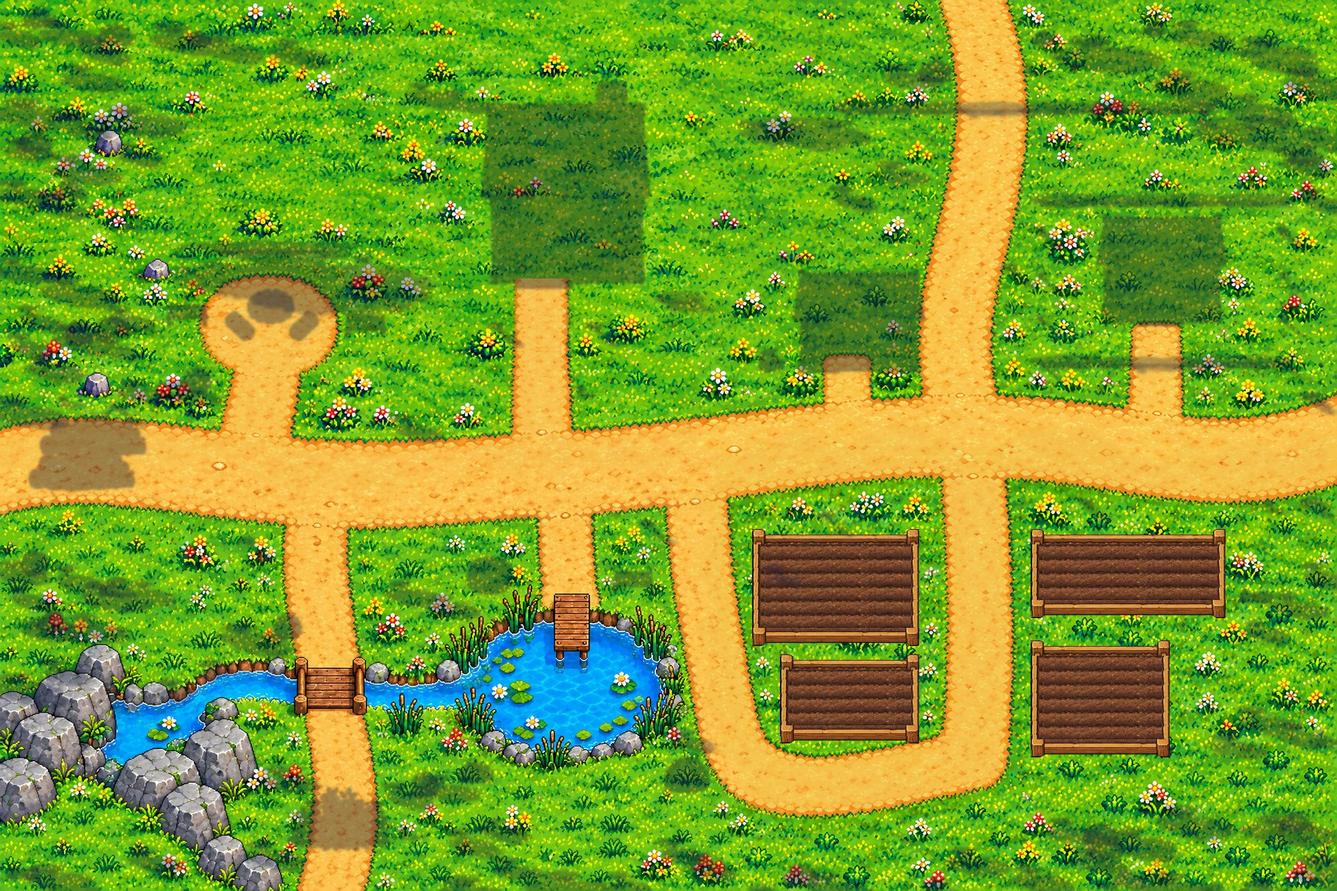
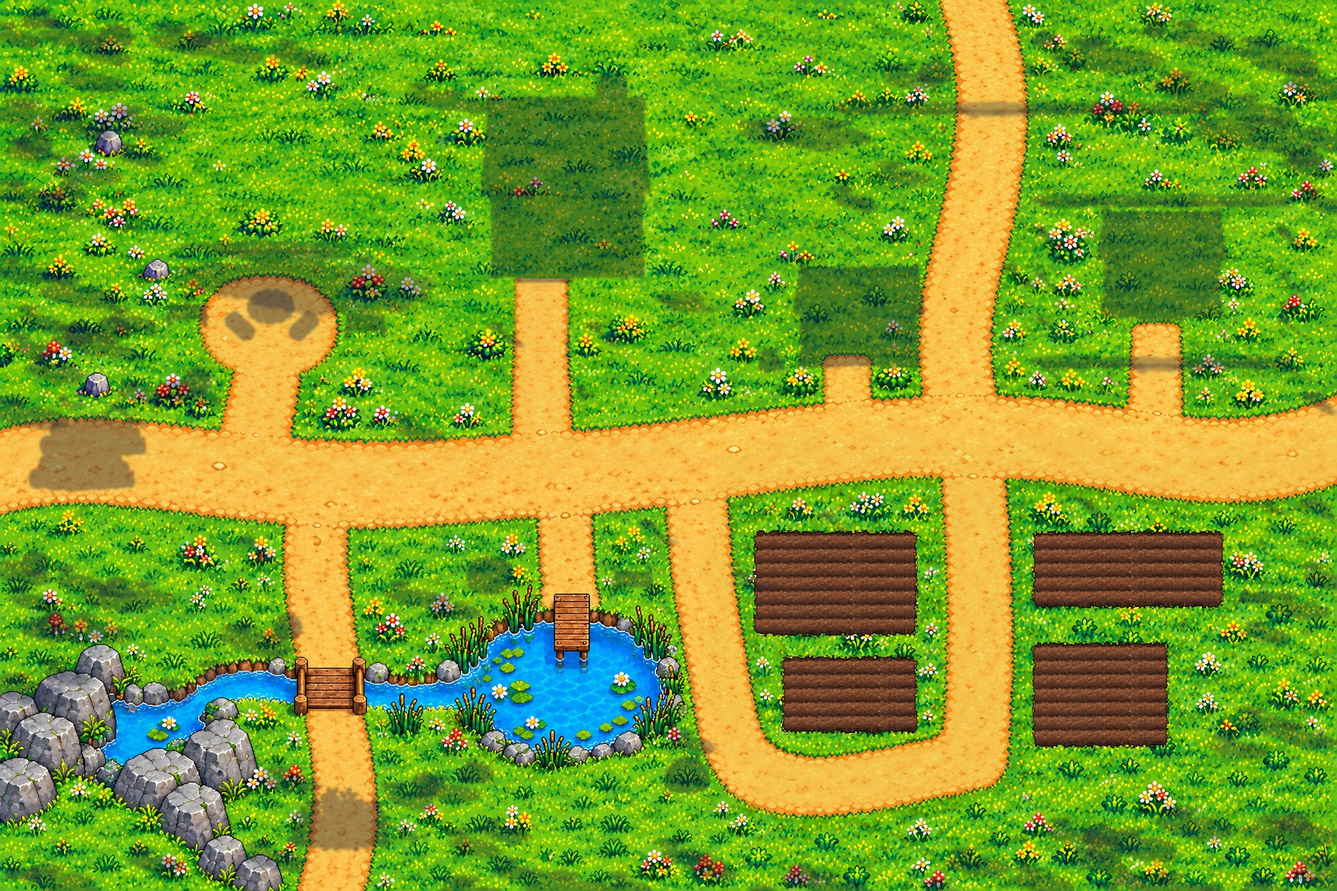
1.13: fixes from the owner's walk through G9: no stepping off the bridge into the stream, beds as frameless tilled soil with small planting holes, no baked gold outline, mailbox name above the box, no shadow band under buildings, no code-drawn sky lanterns on this scene

diff --git a/index.html b/index.html
@@ -121,7 +121,7 @@ window.DEFER_Q=[];window.DEFER_ON=true;window.DEFER_DONE=new Set();
 
 // ===== Lantern Academy (LA) · index.html · formerly "Leah พาเพลิน 2D" =====
 // Files are loaded by name. If a file is missing the game draws a simple stand-in and keeps running.
-const VERSION='Lantern Academy 1.12';
+const VERSION='Lantern Academy 1.13';
 const T=32;
 const FILES={laLogo:'logo.png',ground:'tiles-village.png',cliff:'tiles-cliff.png',water:'tiles-water.png',cobble:'tiles-cobble.png',cave:'tiles-cave.png',
   props:'props-village.png',mprops:'props-mountain.png',cprops:'props-cave.png',dprops:'props-dungeon.png',farm:'props-farm.png',
@@ -1302,9 +1302,10 @@ function render(tm){if(!M||!S)return;
   for(const e of M.exits){if(e.needBoss&&!S.boss||e.lockBoss&&M.boss&&!M.boss.happy)continue;const near=Math.hypot(P.x-e.x,P.y-e.y)<90;if(e.locked){if(near)ring(e.x-camX,e.y-camY,tm,.3,'255,150,150')}else ring(e.x-camX,e.y-camY,tm,near?1:.5)}
   for(const s of M.stones){const aw=S.stones.includes(s.id);ring(s.x-camX,s.y-camY+2,tm*(aw?1:.3),aw?.9:.05)}
   for(const s of M.stairs||[]){const x=Math.round(s.x-camX-18),y=Math.round(s.y-camY-26);for(let i=0;i<4;i++){const yy=s.up?y+i*7:y+21-i*7;ctx.fillStyle=['#7a4a26','#8a5a30','#9a6a3a','#aa7a44'][i];ctx.fillRect(x+i*2,yy,36-i*4,6);ctx.fillStyle='rgba(40,20,10,.5)';ctx.fillRect(x+i*2,yy+6,36-i*4,1)}ctx.fillStyle='#5a3418';ctx.fillRect(x-2,y-2,3,32);ctx.fillRect(x+35,y-2,3,32)}
-  for(const q of M.zones||[])label((q.x0+q.x1+1)/2*T-camX,(q.y0+q.y1)/2*T-camY,t(q.k));if(M.pool)label(8.5*T-camX,15*T-camY-6,t('pool'));if(M.mailbox&&Math.hypot(P.x-M.mailbox.x,P.y-M.mailbox.y)<90)label(M.mailbox.x-camX,M.mailbox.y-camY-30,t('mailbox'));
+  for(const q of M.zones||[])label((q.x0+q.x1+1)/2*T-camX,(q.y0+q.y1)/2*T-camY,t(q.k));if(M.pool)label(8.5*T-camX,15*T-camY-6,t('pool'));if(M.mailbox&&Math.hypot(P.x-M.mailbox.x,P.y-M.mailbox.y)<90)label(M.mailbox.x-camX,M.mailbox.y-camY-(M.g9b?58:30),t('mailbox'));
   if(M.bath)label((M.bath.x0+M.bath.x1+1)/2*T-camX,(M.bath.y0+M.bath.y1)/2*T-camY,'🛁 '+t('bathroom'));
-  for(const p of M.plots||[]){const q=plotState(p),x=Math.round(p.x-camX),y=Math.round(p.y-camY);ctx.fillStyle=q.w?'#4a3322':'#6b4a2e';ctx.fillRect(x-13,y-8,26,16);ctx.fillStyle=q.w?'#3a2618':'#5a3c24';for(let r=0;r<3;r++)ctx.fillRect(x-11,y-6+r*5,22,1);
+  for(const p of M.plots||[]){const q=plotState(p),x=Math.round(p.x-camX),y=Math.round(p.y-camY);if(M.g9b){if(q.w){ctx.fillStyle='rgba(34,20,9,.36)';ctx.beginPath();ctx.ellipse(x,y,14,6,0,0,7);ctx.fill()}if(q.st==='empty'){ctx.fillStyle='rgba(30,17,8,.6)';ctx.beginPath();ctx.ellipse(x,y,5,2.5,0,0,7);ctx.fill();ctx.fillStyle='rgba(190,140,90,.55)';ctx.fillRect(x-4,y+2,8,1)}}
+    else{ctx.fillStyle=q.w?'#4a3322':'#6b4a2e';ctx.fillRect(x-13,y-8,26,16);ctx.fillStyle=q.w?'#3a2618':'#5a3c24';for(let r=0;r<3;r++)ctx.fillRect(x-11,y-6+r*5,22,1)}
     if(q.st==='seed'){ctx.fillStyle='#e8d6a0';for(let i=0;i<4;i++)ctx.fillRect(x-8+i*5,y-2+(i%2),2,1)}else if(q.st==='sprout'||q.st==='ripe'){const r=FR[q.st==='ripe'?CROPS[q.crop].bed:'sproutBed'];if(IMG.farm)ctx.drawImage(IMG.farm,r[0],r[1],32,32,x-16,y-22,32,32)}
     if(q.st!=='empty'&&q.st!=='ripe'&&!q.w){ctx.fillStyle='#8fd8ff';ctx.fillRect(x-1,y-26+Math.round(Math.sin(tm*4)),3,4);ctx.fillRect(x,y-28+Math.round(Math.sin(tm*4)),1,2)}
     if(q.st==='ripe'&&Math.sin(tm*4+p.i)>.4){ctx.fillStyle='#fff6c0';ctx.fillRect(x+8,y-20,1,3);ctx.fillRect(x+7,y-19,3,1)}}
@@ -2094,7 +2095,7 @@ function duskish(){try{const p=dayPhase();return p==='dusk'||p==='night'}catch(e
     for(let i=1;i<=5;i++){const tt=i/6,x=(1-tt)*(1-tt)*x1+2*(1-tt)*tt*mx+tt*tt*x2,y=(1-tt)*(1-tt)*y1+2*(1-tt)*tt*my+tt*tt*y2+Math.sin(tm*2+i)*1.2;
       if(glow){ctx.save();ctx.globalCompositeOperation='lighter';ctx.fillStyle='rgba(255,170,90,.28)';ctx.beginPath();ctx.arc(x,y+5,8,0,6.283);ctx.fill();ctx.restore()}
       ctx.fillStyle=i%2?'#d9483b':'#f29a38';ctx.beginPath();ctx.ellipse(x,y+5,4,5,0,0,6.283);ctx.fill();ctx.fillStyle='#3a1e3f';ctx.fillRect(x-3,y,6,1);ctx.fillRect(x-3,y+9,6,1);ctx.fillStyle='#ffc857';ctx.fillRect(x,y+10,1,3)}}
-  if(glow){if(YIPENG.length<8&&Math.random()<.02)YIPENG.push({x:camX+Math.random()*VW,y:camY+VH+20,s:.6+Math.random()*.6,ph:Math.random()*6});
+  if(glow&&!M.g9b){if(YIPENG.length<8&&Math.random()<.02)YIPENG.push({x:camX+Math.random()*VW,y:camY+VH+20,s:.6+Math.random()*.6,ph:Math.random()*6});
     for(const L of YIPENG){L.y-=(8+6*L.s)*.016;L.ph+=.016;const x=L.x+Math.sin(L.ph*.8)*10-camX,y=L.y-camY,s=L.s;ctx.save();ctx.globalCompositeOperation='lighter';ctx.fillStyle='rgba(255,180,90,.3)';ctx.beginPath();ctx.arc(x,y,12*s,0,6.283);ctx.fill();ctx.restore();
       ctx.fillStyle='#f6a24a';ctx.beginPath();ctx.moveTo(x-5*s,y-7*s);ctx.lineTo(x+5*s,y-7*s);ctx.lineTo(x+4*s,y+5*s);ctx.lineTo(x-4*s,y+5*s);ctx.fill();ctx.fillStyle='#ffe08a';ctx.fillRect(x-2*s,y+2*s,4*s,2*s)}
     YIPENG=YIPENG.filter(L=>L.y>camY-60)}else YIPENG=[];

diff --git a/sw.js b/sw.js
@@ -1,5 +1,5 @@
-// Lantern Academy 1.12 · Leah-PP service worker: network first (always newest when online), cache as backup when offline.
-const CACHE='lantern-v89';
+// Lantern Academy 1.13 · Leah-PP service worker: network first (always newest when online), cache as backup when offline.
+const CACHE='lantern-v90';
 const FILES=['./','index.html','manifest.json','questions-index.json','q-math-6.json','q-math-7.json','q-math-8.json','q-english-6.json','q-english-7.json','q-english-8.json','q-thai-6.json','q-thai-7.json','q-thai-8.json','q-chinese-6.json','q-chinese-7.json','q-chinese-8.json','q-general-6.json','q-general-7.json','q-general-8.json','leah-walk.png','leah-idle.png','dad-idle.png','mom-idle.png','peb-idle.png','nuan-idle.png','cave-floor.jpg','cave-wall.jpg','tiles-cave.png','tiles-village.png','tiles-hedge.png','obj-fountain.png','props-village.png','props-cave.png','props-dungeon.png','buildings-village.png','tiles-house.png','furniture.png','play.html','kid-curly2-idle.png','kid-curly2-stand.png','kid-curly2-walk.png','play.webmanifest','firebase-config.js','tiles-cliff.png','tiles-water.png','tiles-cobble.png','props-mountain.png','props-farm.png','obj-lightstone.png','obj-lightstone-plaza.png','obj-cave-crystal.png','obj-rockfall.png','obj-bridge-rope.png','obj-bridge-stone.png','obj-pier.png','obj-fountain-big.png','obj-fountain-old.png','capital-greybox.png','bld-academy.png','bld-lanna-house.png','bld-lanna-house2.png','bld-market-stall.png','obj-lantern-shrine.png','obj-bridge-arch.png','obj-stairs-stone.png','obj-pier-teak.png','kid-braids-idle.png','kid-braids-stand.png','kid-braids-walk.png','kid-ponytail-idle.png','kid-ponytail-stand.png','kid-ponytail-walk.png','kid-bob-idle.png','kid-bob-stand.png','kid-bob-walk.png','kid-curly-idle.png','kid-curly-stand.png','kid-curly-walk.png','kid-blond-idle.png','kid-blond-stand.png','kid-blond-walk.png','kid-spiky-idle.png','kid-spiky-stand.png','kid-spiky-walk.png','icon-192.png','icon-512.png','icon-maskable-512.png','apple-touch-icon.png','favicon-32.png','logo.png','title-art.jpg','farm-greybox.png','map-capital-a.jpg','obj-fountain-capa.png','map-capital-royal.jpg','obj-statue-capital.png','signs-capital.png','map-royal-plaza.jpg','signs-royal-plaza.png','map-cave-mouth.jpg','hunt-SW.jpg','hunt-NW.jpg','hunt-NE.jpg','hunt-SE.jpg','mon-slime.png','mon-bat.png','mon-mushbug.png','mon-golem.png','icons-drops.png','card-front.png','card-back.png','kit-town-buildings.png','kit-town-nature.png','kit-town.png','kit-town.json','tiles-town-meadow.png','tiles-town-water.png','portraits-town.png','crystal-paplern.png','stamps.png','farm-house-1.png','farm-house-2.png','farm-house-3.png','map-G9-home-farm.jpg','map-H9-village.jpg','objects-1.png','map-G9b-ground.jpg','g9b-sprites.png','g9b-plants.png','g9b-scene.json'];
 self.addEventListener('install',e=>{self.skipWaiting();e.waitUntil(caches.open(CACHE).then(c=>Promise.all(FILES.map(f=>c.add(f).catch(()=>null)))));self.skipWaiting()});
 self.addEventListener('activate',e=>{e.waitUntil(self.clients.claim());e.waitUntil(caches.keys().then(ks=>Promise.all(ks.filter(k=>k!==CACHE).map(k=>caches.delete(k)))));self.clients.claim()});

diff --git a/compose_g9_full.py b/compose_g9_full.py
@@ -79,22 +79,24 @@ def straight_plot_parts():
     per = int(round(np.median(np.diff(lows)))) if len(lows) > 2 else 19
     return im, lows[0], per
 PLOT_IM, FUR0, FPER = straight_plot_parts()
+PTOP, PSIDE = 7, 8                                           # soil starts this far inside the picture (room for the uneven edge)
 def make_plot(w, n_furrows):
-    PW_, PH_ = PLOT_IM.size; cw, top, bot, side = 20, 22, 26, 12          # corner width, top beam + posts, bottom beam + posts, side beam
-    soil_h = n_furrows * FPER; h = top + soil_h + bot; out = Image.new('RGBA', (w, h), (0, 0, 0, 0))
-    soil = PLOT_IM.crop((side + 6, FUR0, PW_ - side - 6, FUR0 + FPER)); sw = soil.width
+    PW_, PH_ = PLOT_IM.size; soil_h = n_furrows * FPER; h = PTOP + soil_h + 9; a = np.zeros((h, w, 4), np.uint8)
+    soil = np.asarray(PLOT_IM.crop((18, FUR0, PW_ - 18, FUR0 + FPER))); sw = soil.shape[1]
     for r in range(n_furrows):
-        x = side
-        while x < w - side: out.paste(soil if (x // sw) % 2 == 0 else soil.transpose(Image.FLIP_LEFT_RIGHT), (x, top + r * FPER)); x += sw
-    lb = PLOT_IM.crop((0, 44, side, 44 + FPER)); rb = PLOT_IM.crop((PW_ - side, 44, PW_, 44 + FPER))
-    for r in range(n_furrows): out.paste(lb, (0, top + r * FPER)); out.paste(rb, (w - side, top + r * FPER))
-    tb = PLOT_IM.crop((cw + 8, 0, PW_ - cw - 8, top)); bb = PLOT_IM.crop((cw + 8, PH_ - bot, PW_ - cw - 8, PH_)); x = cw
-    while x < w - cw: out.paste(tb.crop((0, 0, min(tb.width, w - cw - x), top)), (x, 0)); out.paste(bb.crop((0, 0, min(bb.width, w - cw - x), bot)), (x, h - bot)); x += tb.width
-    out.paste(PLOT_IM.crop((0, 0, cw, top)), (0, 0)); out.paste(PLOT_IM.crop((PW_ - cw, 0, PW_, top)), (w - cw, 0))
-    out.paste(PLOT_IM.crop((0, PH_ - bot, cw, PH_)), (0, h - bot)); out.paste(PLOT_IM.crop((PW_ - cw, PH_ - bot, PW_, PH_)), (w - cw, h - bot)); return out
+        x = 0
+        while x < w:
+            piece = soil if (x // sw) % 2 == 0 else soil[:, ::-1]; ww = min(sw, w - x); a[PTOP + r * FPER:PTOP + (r + 1) * FPER, x:x + ww] = piece[:, :ww]; x += sw
+    a[:PTOP] = a[PTOP:PTOP + 1]; a[PTOP + soil_h:] = a[PTOP + soil_h - 1:PTOP + soil_h]
+    # uneven edge: rounded corners + clumps of earth, in 3-px steps; then a darker rim, as freshly dug soil has
+    n = np.kron(np.random.RandomState(w * 7 + n_furrows).uniform(-1, 1, (h // 3 + 2, w // 3 + 2)), np.ones((3, 3)))[:h, :w]
+    yy, xx = np.mgrid[:h, :w]; dx = np.minimum(xx, w - 1 - xx).astype(np.float32); dy = np.minimum(yy, h - 1 - yy).astype(np.float32)
+    corner = np.where((dx < 12) & (dy < 12), 12 - np.hypot(12 - dx, 12 - dy), np.minimum(dx, dy)); keep_ = corner + n * 2.6 > 3.0
+    a[..., 3] = np.where(keep_, 255, 0); edge = keep_ & ~(cv2.erode(keep_.astype(np.uint8), np.ones((5, 5), np.uint8)) > 0)
+    a[..., :3] = np.where(edge[..., None], (a[..., :3] * 0.62).astype(np.uint8), a[..., :3]); return Image.fromarray(a, 'RGBA')
 PLOT_RECTS = []
 for k_, v in S['plots'].items():
-    x0, y0, x1, y1 = v['rect']; n_f = max(3, int(round(((y1 - y0) * U - 48) / FPER))); pim = make_plot(int((x1 - x0) * U), n_f)
+    x0, y0, x1, y1 = v['rect']; n_f = max(3, int(round(((y1 - y0) * U - 16) / FPER))); pim = make_plot(int((x1 - x0) * U), n_f)
     FLAT.append((pim, int(x0 * U), int(y0 * U), 'plot')); PLOT_RECTS.append((int(x0 * U), int(y0 * U), pim.width, pim.height))
 # the round stone pad is the base of the energy converter; the machine has no picture yet, and a bare stone disc on the lawn explains nothing, so it is left out for now
 add('shed', *S['doors']['shed'], scale=0.85); add('hut', *S['doors']['friend_hut'])          # a shed is tapped, not entered: it may be smaller than a house
@@ -115,7 +117,7 @@ fx, fy = S['campfire']
 _ys, _xs = np.where(sand[int(8.6 * U):int(12.4 * U), int(7.2 * U):int(12.2 * U)])
 ccx, ccy = (_xs.mean() + 7.2 * U) / U, (np.percentile(_ys, 30) + 8.6 * U) / U                   # centre of the round part of the clearing
 add('firepit', ccx, ccy + 0.55, scale=1.5); add('logSeatL', ccx - 1.15, ccy + 1.15, scale=1.55); add('logSeatR', ccx + 1.15, ccy + 1.15, scale=1.55)
-add('crate', 27.55, S['doors']['shed'][1] + 0.05, h=36); add('scarecrow', 27.7, 20.4)             # the shipping crate stands against the shed, left of its door
+add('crate', 27.55, S['doors']['shed'][1] + 0.05, h=36); add('scarecrow', 26.55, 20.6)             # the crate stands against the shed; the scarecrow stands beside the bed, not in it             # the shipping crate stands against the shed, left of its door
 # the friend's yard: fence all round, an open gate at the path
 fx0, fy0, fx1, fy1 = S['friend_yard']; gx = S['friend_yard_gate'][0]
 FH = spr('fenceH'); HALF = FH.crop((0, 0, 53, FH.height)); STEP = 87
@@ -231,6 +233,7 @@ for by, bx, im, nm in OB:
     w_, hgt = im.size; x0 = bx - w_ / 2; f0, f1 = foot_of(im, nm); fw = f1 - f0; cx = x0 + (f0 + f1) / 2
     if nm in LOW_H:
         dx_, dy_ = int(round(SUN_SX * LOW_H[nm])), int(round(SUN_SY * LOW_H[nm])) + 1; al_ = np.asarray(im)[..., 3].astype(np.float32) / 255.0
+        if nm in ('house', 'shed', 'hut'): dy_ = 1
         X0, Y0 = int(x0) + dx_, int(by - hgt) + dy_; ys0, xs0 = max(0, Y0), max(0, X0); ys1, xs1 = min(H, Y0 + hgt), min(W, X0 + w_)
         if ys1 > ys0 and xs1 > xs0: low[ys0:ys1, xs0:xs1] = np.maximum(low[ys0:ys1, xs0:xs1], al_[ys0 - Y0:ys1 - Y0, xs0 - X0:xs1 - X0])
         FEET.append((by, cx, fw, im, nm)); continue
@@ -311,5 +314,5 @@ if len(sys.argv) > 3:
     level = lambda nm: 'high' if nm in ('treeA', 'treeB', 'treeC', 'clump', 'oak') else 'small' if nm in ('treeD', 'treeE', 'treeF') else 'mid' if nm.startswith('bush') or nm == 'thicket' else 'low'
     inst = [{'n': nm, 'lv': level(nm), 'r': rect[id(im)], 'x': int(bx - im.width / 2), 'y': int(by - im.height), 'by': int(by), 'f': [int(foot_of(im, nm)[0]), int(foot_of(im, nm)[1] - foot_of(im, nm)[0])], 'sh': 0 if nm in SMALL else 1, 'hz': LOW_H.get(nm, 0)}
             for by, bx, im, nm in sorted(OB, key=lambda o: o[0])]
-    json.dump({'w': W, 'h': H, 'inst': inst, 'plots': PLOT_RECTS, 'fper': FPER, 'door_x': DX * U, 'house_base': 10.15 * U}, open(ex + '/scene.json', 'w'))
+    json.dump({'w': W, 'h': H, 'inst': inst, 'plots': PLOT_RECTS, 'fper': FPER, 'ptop': PTOP, 'pside': PSIDE, 'door_x': DX * U, 'house_base': 10.15 * U}, open(ex + '/scene.json', 'w'))
     print(json.dumps({'export': ex, 'unique_sprites': len(order), 'instances': len(inst), 'atlas': list(atlas.size)}))

diff --git a/build_g9_game.py b/build_g9_game.py
@@ -10,7 +10,7 @@ sc = json.load(open(SRC + '/scene.json')); atlas = Image.open(SRC + '/sprites.pn
 Image.open(SRC + '/ground.png').convert('RGB').save(OUT + '/map-G9b-ground.jpg', quality=88, optimize=True, progressive=True)
 
 # ---------- sprites: drop the house (the game draws it by level), reuse one picture for a thing and its mirror image, outline the things you can tap ----------
-TAP = ('board', 'crate', 'mailbox')
+TAP = ()          # no outline baked into the pictures: at 255 colours it came out as a broken dotted line (owner, 3 Oct). The game marks tappable things itself.
 def outlined(im):
     a = np.asarray(im); pad = 2; hh, ww = a.shape[:2]; big = np.zeros((hh + 2 * pad, ww + 2 * pad, 4), np.uint8); big[pad:pad + hh, pad:pad + ww] = a
     al = (big[..., 3] > 0).astype(np.uint8); ring = (cv2.dilate(al, np.ones((3, 3), np.uint8)) > 0) & (al == 0); big[ring] = (255, 226, 120, 235); return Image.fromarray(big, 'RGBA')
@@ -57,7 +57,7 @@ water = op((hh_ > 88) & (hh_ < 125) & (ss_ > 90) & (vv_ > 120), 5); rock = op((s
 sand = op((hh_ >= 14) & (hh_ <= 31) & (ss_ > 55) & (ss_ < 200) & (vv_ > 175), 7)
 solid = np.zeros((GH, GW), bool)
 frac = lambda m: m[:GH * T, :GW * T].reshape(GH, T, GW, T).mean((1, 3))
-solid |= frac(water) >= 0.22; solid |= frac(rock) >= 0.40          # the stream is about one tile wide: a low share of water already closes a tile, or you could wade across
+solid |= frac(water) >= 0.08; solid |= frac(rock) >= 0.40          # any tile with water in it is closed: at 0.22 you could still step off the bridge onto the bank tiles and stand in the stream (owner, 3 Oct)
 def open_rect(x0, y0, x1, y1):                                     # wooden ways over water stay open
     for ty in range(int(y0 // T), int(y1 // T) + 1):
         for tx in range(int(x0 // T), int(x1 // T) + 1): solid[ty, tx] = False
@@ -105,13 +105,13 @@ bd = find('board')[0]; P['sign'] = [round(cxy(bd)[0] / T, 2), round((bd['by'] + 
 P['conv'] = [30, 16]
 # fishing: stand on the wooden dock, near its end
 dock_x = int(20.5 * 40); col = np.where(~water[820:1000, dock_x] )[0]; col = col[col < 120]; P['fish'] = [round(dock_x / T, 2), round((820 + col.max() - 16) / T, 2)]
-(p1x, p1y, p1w, p1h), (p2x, p2y, p2w, p2h), p3, p4 = sc['plots']; FP = sc['fper']; soil = lambda px, pw: (px + 12, pw - 24)
-sx0, sw_ = soil(p1x, p1w); P['plots'] = [[round((sx0 + (c + .5) * sw_ / 4) / T, 2), round((p1y + 22 + (2 * r + 1) * FP + 4) / T, 2)] for r in range(3) for c in range(4)]
-sx0, sw_ = soil(p2x, p2w); P['extra'] = [[round((sx0 + (c + .5) * sw_ / 4) / T, 2), round((p2y + 22 + (2 * r + 1) * FP + 4) / T, 2)] for r in range(2) for c in range(4)]
+(p1x, p1y, p1w, p1h), (p2x, p2y, p2w, p2h), p3, p4 = sc['plots']; FP = sc['fper']; PT = sc.get('ptop', 22); PSD = sc.get('pside', 12); soil = lambda px, pw: (px + PSD + 6, pw - 2 * PSD - 12)
+sx0, sw_ = soil(p1x, p1w); rows1 = max(3, (p1h - PT - 9) // FP); P['plots'] = [[round((sx0 + (c + .5) * sw_ / 4) / T, 2), round((p1y + PT + (r + .5) * (rows1 * FP) / 3 + 6) / T, 2)] for r in range(3) for c in range(4)]
+sx0, sw_ = soil(p2x, p2w); rows2 = max(2, (p2h - PT - 9) // FP); P['extra'] = [[round((sx0 + (c + .5) * sw_ / 4) / T, 2), round((p2y + PT + (r + .5) * (rows2 * FP) / 2 + 6) / T, 2)] for r in range(2) for c in range(4)]
 wl = []
 for (px, py, pw, ph) in (p3, p4):
-    for ty in range(int((py + 22) // T) + 1, int((py + ph - 26) // T) + 1):
-        for tx in range(int((px + 14) // T) + 1, int((px + pw - 14) // T)):
+    for ty in range(int((py + PT) // T) + 1, int((py + ph - 9) // T)):
+        for tx in range(int((px + PSD) // T) + 1, int((px + pw - PSD) // T)):
             wl.append([('bush', 'rock', 'stump')[(tx * 7 + ty * 3) % 3], tx + .5, ty + .5])
 P['wild'] = wl
 lg = find('logs'); lk = find('lockgate')[0]; th = find('thicket')[0]

diff --git a/MAP_PIPELINE.md b/MAP_PIPELINE.md
@@ -87,6 +87,11 @@
   12. **เงาในภาพนิ่งใช้แบบเดียวกับที่เกมวาดสด:** เงานุ่มจากรูปร่างของของเอง + เงานุ่มใต้ฐาน (ค่า 10:00 แดด) · เลิกใช้เงาหย่อมขอบหยัก
   13. **เงามี 2 แบบตามชนิดของ ห้ามใช้แบบเดียวกับทุกชิ้น:** ของตั้ง (ต้นไม้ เสา ป้าย รั้ว) = เงาล้มจากฐานไปทางขวาล่าง · ของที่นอนราบหรือเตี้ยอ้วน (ขอนไม้ กองซุง วงกองไฟ หิน ตอไม้ พุ่มไม้ กล่อง ม้านั่ง บ่อน้ำ อาคาร) = รูปร่างของของเองเลื่อนไปขวาล่างไม่กี่พิกเซลตาม "ความสูงจริง" (`LOW_H` / `hz`) เงาจึงเกาะขอบล่างตลอดแนว · ถ้าใช้เงาล้มกับของนอนราบ เงาจะหลุดไปอยู่ใต้ตัวและของดูลอย (เจ้าของติ 2 รอบ)
   14. **เงาสดในเกม:** วาดเงาลงสำเนาของภาพพื้นตอนสร้างใหม่ (4 ครั้งต่อวินาที หรือทันทีเมื่อเวลา/อากาศเปลี่ยน) แล้วแต่ละเฟรมวาดสำเนานั้นแทนพื้นเปล่า · ห้ามซ้อนชั้นเงาเต็มจอทุกเฟรม (วัดได้ 35 เฟรมต่อวินาที เทียบ 60 บนเครื่องไม่มีการ์ดจอ)
+  15. **แปลงผัก = ผืนดินไถในหญ้า ขอบไม่เรียบ ไม่มีกรอบไม้** (เจ้าของส่งตัวอย่าง 3 ต.ค.) · จุดปลูกว่างเป็นหลุมเล็ก ไม่ใช่สี่เหลี่ยมสีน้ำตาล · หุ่นไล่กายืนข้างแปลง ไม่ยืนในแปลง
+  16. **ช่องที่มีน้ำแม้นิดเดียวต้องเดินไม่ได้** (ส่วนแบ่งน้ำ 8% ขึ้นไป) ยกเว้นพื้นสะพานและท่าน้ำ · ที่ 22% ยังก้าวลงจากสะพานไปยืนในลำธารได้
+  17. **อาคารไม่มีแถบเงาใต้ผนังหน้า** เงาอาคารอยู่ด้านขวาเท่านั้น
+  18. **ไม่อบขอบทองลงในภาพวัตถุ** (ที่ 255 สีกลายเป็นเส้นประ) · ของที่กดได้ให้เกมวาดสัญญาณเอง (ประกาย + ปุ่มเปลี่ยนตามสิ่งที่อยู่ใกล้ ในรอบสอง)
+  19. **ป้ายชื่อของวัตถุที่เป็นภาพยืน** อยู่เหนือวัตถุ ไม่อยู่ข้างหลัง · **โคมลอยที่วาดด้วยโค้ด** ปิดในฉากแบบประกอบ (เจ้าของว่าไม่สวย)
 - **ยังไม่ได้ทำ:** ใส่ฉากนี้เข้าเกมจริง (ตอนนี้เป็นภาพนิ่งและหน้าลอง) · ฐานชนของแต่ละชิ้นในเกม · เงาของตัวละคร · พื้นหิมะ · กกริมสระยังนิ่ง
 - ค่าที่ใช้ไปก่อนเพราะเจ้าของยังไม่ตอบ: ต้นไม้ขนาดเท่าภาพต้นแบบ · ลมระดับกลาง · อากาศเป็นภาพอย่างเดียว
 

diff --git a/HANDOFF_S13.md b/HANDOFF_S13.md
@@ -1,9 +1,10 @@
-# HANDOFF S13 — Lantern Academy (3 ต.ค. 2569 ค่ำ · เกมรุ่น 1.12)
+# HANDOFF S13 — Lantern Academy (3 ต.ค. 2569 ดึก · เกมรุ่น 1.13)
 
 อ่านต่อจาก `HANDOFF_S12.md` · ลำดับความสำคัญเอกสาร: `MAP_PIPELINE.md` > ไฟล์นี้ > `PHASE1_PLAN.md` > `MAP_SPEC_G9.md` > `MAP_SPEC_H9.md` > `STORY.md`
 
 ## สถานะ
 - เกม: https://phoneyjung.github.io/Leah-PP/ · โหมด GM: `?gm` · repo: https://github.com/phoneyjung/Leah-PP · อัปไฟล์: https://github.com/phoneyjung/Leah-PP/upload/main
+- **รุ่น 1.13 (แก้ตามที่เจ้าของเดินตรวจ 1.12):** ตกน้ำข้างสะพานไม่ได้แล้ว · แปลงผักเป็นผืนดินไถไม่มีกรอบ จุดปลูกเป็นหลุมเล็ก · เอาขอบทองรอบกล่อง/ป้าย/ตู้จดหมายออก · ป้ายชื่อตู้จดหมายอยู่เหนือตู้ · เงาอาคารไม่มีแถบใต้ผนังหน้า · ปิดโคมลอยในฉากนี้ · ค้าง: ภาพเครื่องแปลงพลังงาน (เกมยังวาดเป็นคริสตัลบนแท่น เจ้าของถามว่าคืออะไร) · ภาพพืชผลแบบมีระยะโต (พรอมป์ส่งแล้ว รอคำตอบว่าแผ่นตัวอย่างที่เจ้าของแนบมาใช้ได้เลยไหม) · สัญญาณของที่กดได้
 - **รุ่น 1.12: ฉาก G9 แบบประกอบ (พื้นที่ AI วาด + ของแยกชิ้น) อยู่ในเกมแล้ว รอบแรก** · โลก 60×40 ช่อง (1920×1280 พิกเซล) · ของ 563 ชิ้น · ชนได้ทุกชิ้น · บ้าน แปลง โรงเก็บของ กล่อง ตู้จดหมาย ท่าตกปลา ทางปิด 3 จุด ทางไปหมู่บ้าน ทำงานที่ตำแหน่งใหม่
 - ไฟล์ของฉากใหม่: `map-G9b-ground.jpg` (955 KB) · `g9b-plants.png` (619 KB) · `g9b-sprites.png` (73 KB) · `g9b-scene.json` (14 KB) · ไฟล์ใดหาย เกมกลับไปใช้ฉาก G9 เดิม (ทดสอบแล้วทั้ง 3 กรณี error 0)
 - หน้าลองฉากมีชีวิต: `water-demo.html` (น้ำขยับ ใบบัว เงาปลา ลม 3 ระดับ เงาสดตามเวลาและอากาศ ฝน หิมะ) ยังไม่ได้เข้าเกม
@@ -32,3 +33,4 @@
 - แผ่นวัตถุลดเหลือ 255 สีต่อแผ่น (สีเพี้ยนเฉลี่ย 3.6–3.9 จาก 255) เพื่อให้ไฟล์เล็ก
 - ภาพฉาก G9 เดิม (630 KB) ยังถูกโหลดไว้เป็นตัวสำรอง
 - GitHub token ที่ใช้อัปไฟล์หมดอายุ 10 ต.ค. 2569 และใช้ได้เฉพาะแชทที่เจ้าของให้ไว้ แชทใหม่ต้องขอใหม่
+- แก้ข้อมูลที่เคยบอกผิด: เกมวาดเม็ดฝนและวงน้ำบนจอในวันฝนตกอยู่แล้ว (ฉากแบบ town) ไม่ใช่มีแค่กติกา
